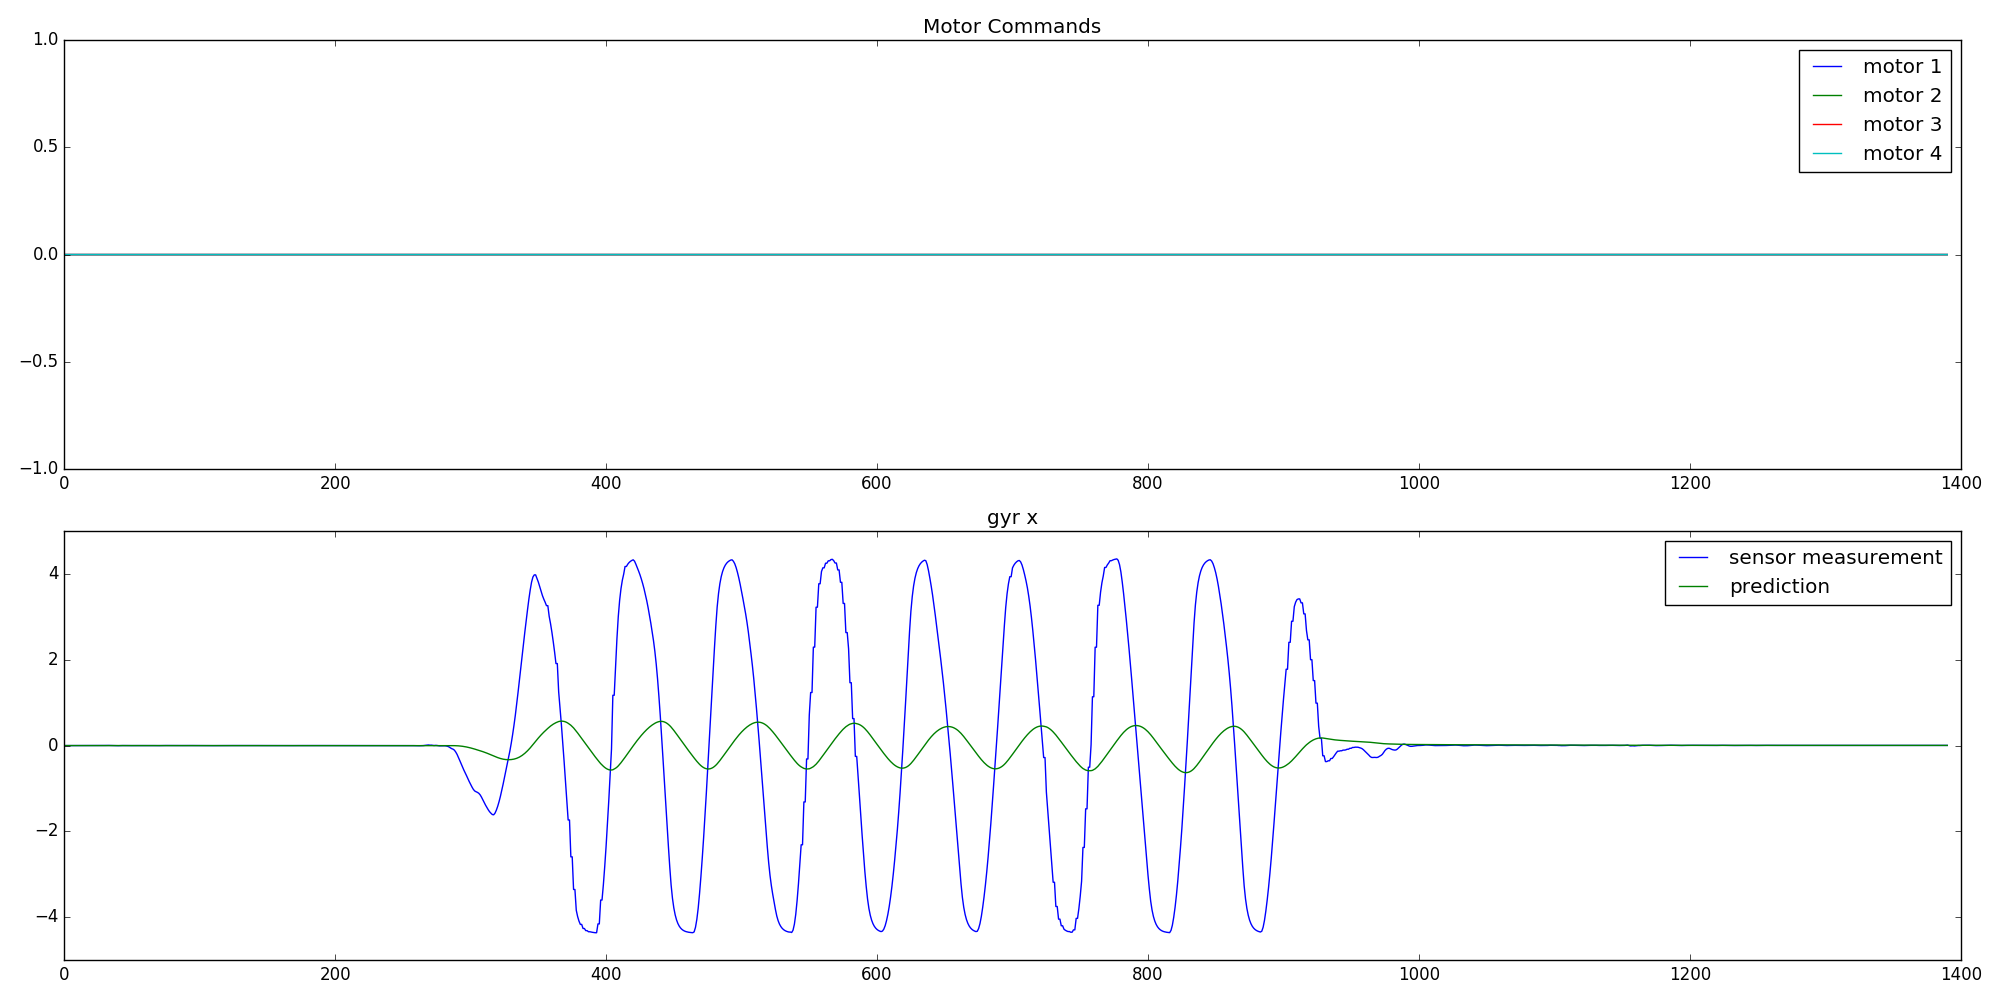
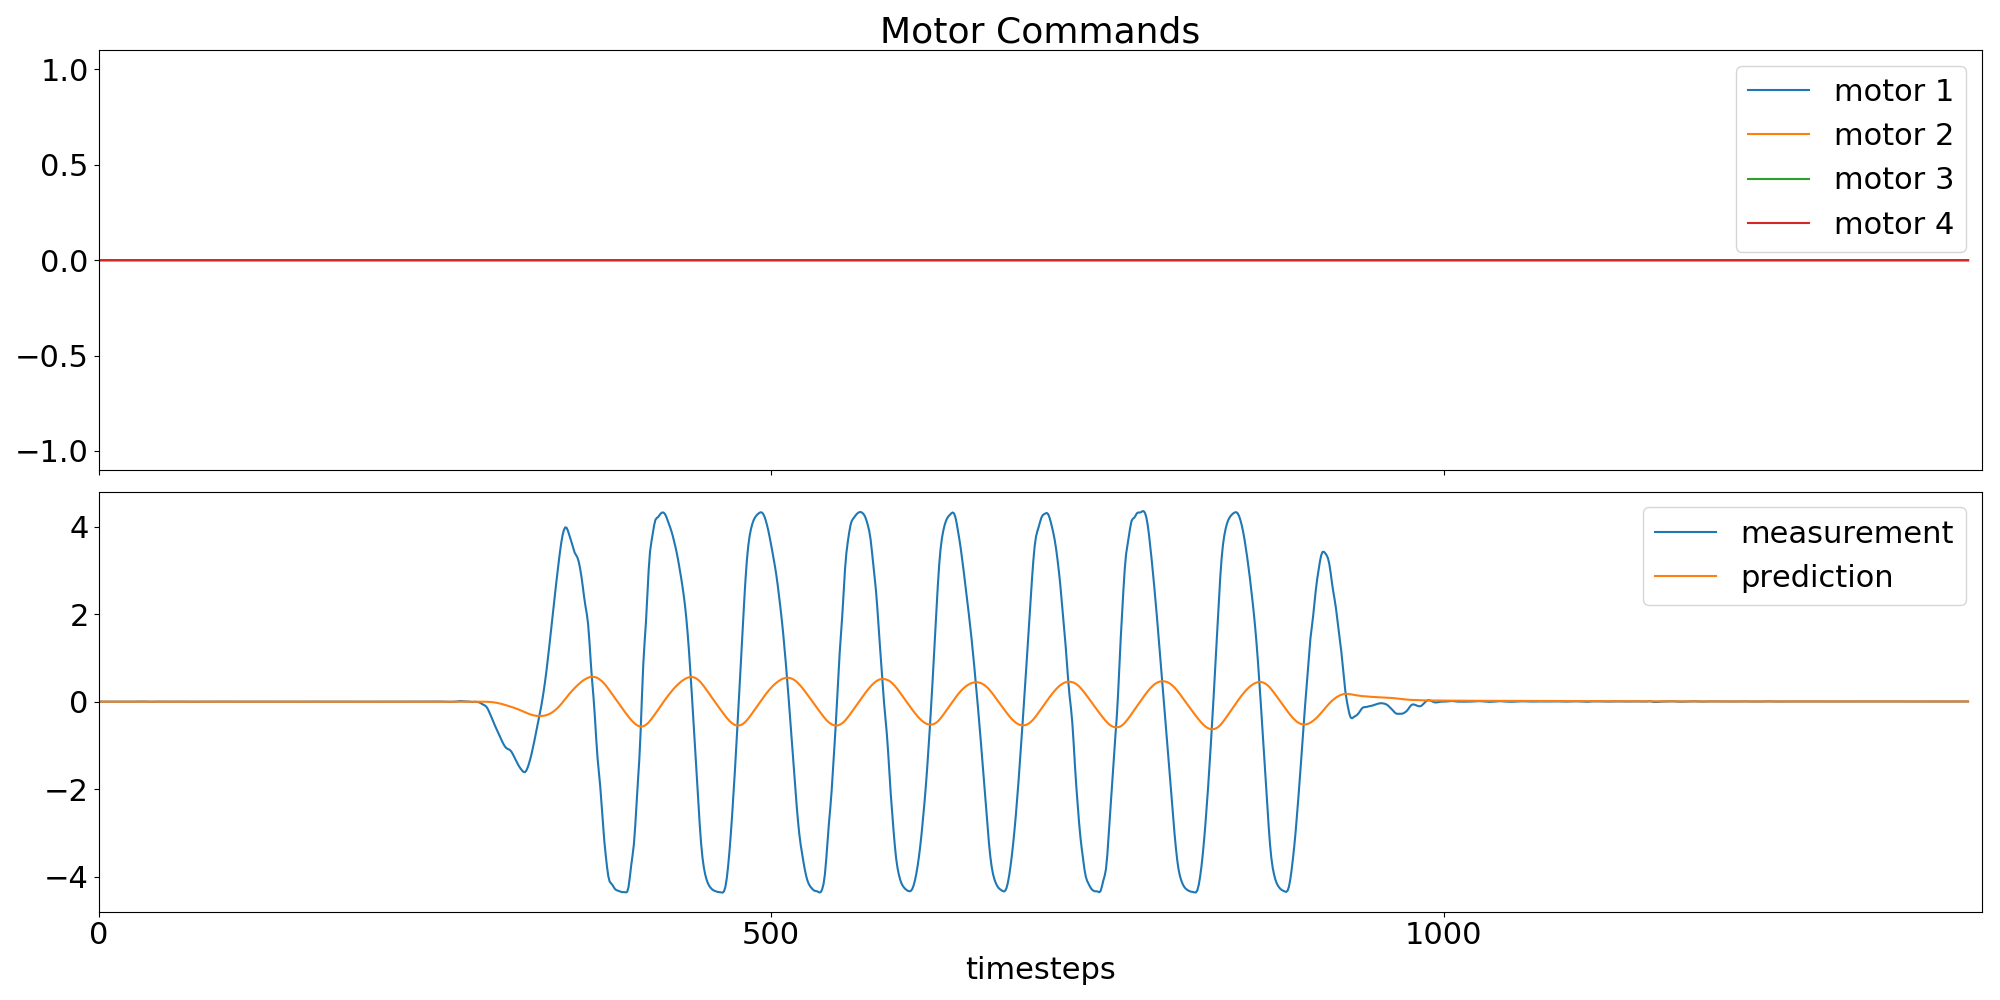
Modified analyzer for the plots, prints, labels and mathplotlib version 2

diff --git a/pickle_scripts/analyze_pickle.py b/pickle_scripts/analyze_pickle.py
@@ -54,17 +54,20 @@ class Analyzer():
         self._extract_all_variables()
         self._prepare_sensor_names()
 
-        if 'sensor_prediction' in self.variable_dict:
+        if 'x_pred' in self.variable_dict:
             self._sliding_window_variance()
 
-        params = {'legend.fontsize': 'large',
-          'figure.figsize': (20, 10),
-         'axes.labelsize': 'large',
-         'axes.titlesize':'large',
-         'xtick.labelsize':'large',
-         'ytick.labelsize':'large'}
+        params = {'legend.fontsize': 22,
+          'figure.figsize': (20, 14),
+         'axes.labelsize':22,
+         'axes.titlesize':26,
+         'xtick.labelsize':22,
+         'ytick.labelsize':22}
+
         plt.rcParams.update(params)
 
+        #colors from https://sashat.me/2017/01/11/list-of-20-simple-distinct-colors/
+        self.distinctColors = ['#e6194b','#3cb44b','#0082c8','#ffe119']
 
     """ HELPER FUNCTIONS """
 
@@ -78,6 +81,8 @@ class Analyzer():
         self.lag = self.variable_dict['lag']
         self.motor_commands = self.variable_dict["y"][:self.cut]
         self.sensor_values = self.variable_dict["x"][:self.cut]
+
+        self.numtimesteps = self.cut
 
         self.loop_time = None
         if "loop_time" in self.variable_dict:
@@ -280,14 +285,18 @@ class Analyzer():
 
         f, axarr = plt.subplots(len(self.use_sensors) + 1, 1, figsize=(20,12), sharex=True)
 
+
+
         for motor in range(self.nummot):
-            if args.synchronous_front_back and motor % 2 != 0:
+            if args.synchronous_front_back and motor % 2 == 0:
                 axarr[0].plot(self.motor_commands[:, motor])
         axarr[0].set_ylim([-1.1, 1.1])
         axarr[0].set_title("Motor Commands")
+        axarr[0].set_ylabel("a.u.")
+        axarr[0].grid()
 
         if args.synchronous_front_back:
-            axarr[0].legend(["front", "hind"])
+            axarr[0].legend(["hind legs", "front legs"])
 
         sensor_index = 0
         for sensor in range(len(self.use_sensors)):
@@ -308,11 +317,14 @@ class Analyzer():
                 axarr[sensor + 1].set_ylabel("$" + self.sensor_units[sensor_name] + "$")
                 sensor_index += 1
 
+            axarr[sensor + 1].grid()
             axarr[sensor +1 ].legend()
 
-        axarr[sensor + 1].set_xlabel("timesteps ($10ms$)")
+        axarr[sensor + 1].set_xlabel("timesteps ($10ms$ each)")
+
 
         f.tight_layout()
+
         self._save_image(f, 'img/time_series_motor_sensors.png')
         plt.show()
 
@@ -344,14 +356,6 @@ class Analyzer():
 
         f = plt.figure(figsize = (20,14))
 
-        params = {'legend.fontsize': 22,
-          'figure.figsize': (20, 14),
-         'axes.labelsize':22,
-         'axes.titlesize':26,
-         'xtick.labelsize':22,
-         'ytick.labelsize':22}
-
-        plt.rcParams.update(params)
         plt.hist(source, label=["right hind", "left hind", "right front", "left front"], bins= 10)
 
         def to_percent(y, position):
@@ -388,12 +392,12 @@ class Analyzer():
         parser.add_argument("-filter", "--filter_cutoff", type=float, default = 0.5)
         parser.add_argument("-xs", '--xlim_start', type= int, default = 0)
         parser.add_argument('-xe', '--xlim_end', type=int, default = self.numtimesteps)
-        parser.add_argument('-pMotor', '--plotMotor', type=bool, default = False)
         parser.add_argument('-pSensors', '--plotSensors', type=bool, default = True)
-        parser.add_argument('-pSensorsCut', '--plotSensorsCut', type=bool, default = False)
-        parser.add_argument('-pMse', '--plotMse', type=bool, default = False)
-        parser.add_argument('-pVar', '--plotVar', type=bool, default = False)
-        parser.add_argument('-pMseNorm', '--plotMseNorm', type=bool, default = False)
+        parser.add_argument('-pMotor', '--plotMotor', default = False, action='store_true')
+        parser.add_argument('-pSensorsCut', '--plotSensorsCut', default = False, action='store_true')
+        parser.add_argument('-pMse', '--plotMse', default = False, action='store_true')
+        parser.add_argument('-pVar', '--plotVar', default = False, action='store_true')
+        parser.add_argument('-pMseNorm', '--plotMseNorm', default = False, action='store_true')
         # TODO Make the bool args setable without writing the 1
 
         args, unknown_args = parser.parse_known_args()
@@ -427,8 +431,10 @@ class Analyzer():
         if args.plotMseNorm:
             num_subplots += 1
 
+        subplot_height = 5
+
         params = {'legend.fontsize': 22,
-          'figure.figsize': (20, 30),
+          'figure.figsize': (20, subplot_height * num_subplots),
          'axes.labelsize':22,
          'axes.titlesize':26,
          'xtick.labelsize':22,
@@ -461,8 +467,8 @@ class Analyzer():
                     pred = self.sensor_prediction[:-self.lag,i]
                     selected_ax = axarr[cnt_subplot + i]
                     # normal plot
-                    selected_ax.plot(self.sensor_values[:-self.lag,i], label="measurement", color='b')
-                    selected_ax.plot(pred, label="prediction", color='r')
+                    selected_ax.plot(self.sensor_values[:-self.lag,i], label="measurement")
+                    selected_ax.plot(pred, label="prediction")
 
                     # cut between bias and motor pred
                     if hasattr(self, 'x_pred_coefficients') and args.plotSensorsCut:
@@ -621,14 +627,14 @@ class Analyzer():
         # THIS IS USED AND TESTED FOR EXPERIMENT 2
 
         parser = argparse.ArgumentParser()
-        parser.add_argument("-extended", "--extended", type=bool, default = False)
+
         parser.add_argument("-lag", "--lag", type=int, default = 1)
         args, unknown_args = parser.parse_known_args()
 
         self.sensor_values -= np.mean(self.sensor_values, axis=0)
         self._prepare_data_for_learning()
 
-        if args.extended:
+        if self.args.extended:
             self.trainingData["motor"] = np.zeros_like(self.trainingData["motor"])
             self.testData["motor"] = np.zeros_like(self.testData["motor"])
 
@@ -644,22 +650,44 @@ class Analyzer():
         predTest = regr.predict(self.testData["motor"])
 
 
-        _var = np.std(self.sensor_values, axis=0)
+        _var = np.var(self.testData["sensor"], axis=0)
 
 
-        mse = np.mean((predTest - self.testData["sensor"]) ** 2)
-        mse_var = np.mean(((predTest - self.testData["sensor"])/_var) ** 2)
-        print mse
-        print mse_var
+        mse = np.mean((predTest - self.testData["sensor"]) ** 2, axis=0)
+        mse_var = mse / _var
+
+        print self.trainingData["motor"]
+
+        print "\tacc \t gyr\ttotal"
+        print "mse:\t%.3f\t%.3f\t%.3f" % (np.mean(mse[:3]), np.mean(mse[3:]),np.mean(mse))
+        print "var:\t%.3f\t%.3f\t%.3f" % (np.mean(_var[:3]), np.mean(_var[3:]), np.mean(_var))
+        print "nmse:\t%.3f\t%.3f\t%.3f" % (np.mean(mse_var[:3]), np.mean(mse_var[3:]), np.mean(mse_var))
+
+        print "coeffs"
+        print "{}"
+        for i in range(regr.coef_.shape[1]):
+            print "{",
+            for j in range(regr.coef_.shape[0]):
+                print regr.coef_[j,i],
+                if j != regr.coef_.shape[0] - 1:
+                    print ",",
+            print "}\n"
+
+        print "}"
+
 
         _y_min = np.ceil(np.min(self.testData["sensor"]))
         _y_max = np.floor(np.max(self.testData["sensor"]))
-        _y_ticks = np.arange(_y_min, _y_max + 1, 1)
+        _x_ticks = np.arange(0,predTest.shape[0] + 10, 100)
+        _y_step = np.round((_y_max - _y_min) / 5.)
+        _y_ticks = np.arange(_y_min, _y_max + 1, _y_step)
 
-        f, ax = plt.subplots(3,2, sharey=True, sharex=True, figsize=(20,15))
+        # plotting
 
 
-        plt.rc('font', family='serif', size=30)
+        f, ax = plt.subplots(3,2, sharey=True, sharex=True, figsize=(20,10))
+
+        #plt.rc('font', family='serif', size=30)
 
         for i in range(self.numsen):
             _x = i % 3
@@ -668,11 +696,11 @@ class Analyzer():
             selected_sensor = self.use_sensors[_y]
 
             ax_selected.plot(self.testData["sensor"][:,i], label='sensor measurements')
-            ax_selected.plot(predTest[:,i], label='sensor prediction')
+            ax_selected.plot(predTest[:,i], label='sensor predictions')
 
             ax_selected.grid(linestyle='--', linewidth=1, alpha = 0.2)
             plt.yticks(_y_ticks)
-            plt.xticks(np.arange(0,predTest.shape[0],100))
+            plt.xticks(_x_ticks)
 
             if _y == 0:
                 ax_selected.set_ylabel(['x','y','z'][_x])
@@ -683,7 +711,7 @@ class Analyzer():
                 ax_selected.set_xlabel("timesteps")
 
         # Put a legend below current axis
-        ax[2,0].legend(loc='lower left', bbox_to_anchor=(0, -0.7),
+        ax[2,0].legend(loc='lower left', bbox_to_anchor=(0, -0.6),
           fancybox=True, shadow=True, ncol=2)
 
         f.tight_layout(pad=3, h_pad=0.4, w_pad = 0.3)
@@ -852,7 +880,7 @@ class Analyzer():
         # acc-y and gyr-x
 
         f, ax = plt.subplots(1,2, figsize=(20,7))
-        plt.rc('font', family='serif', size=30)
+        #plt.rc('font', family='serif', size=30)
 
         ax_i = 0
         for dim in [1,3]:
@@ -961,8 +989,9 @@ class Analyzer():
 
         plt.plot(xValues, [0] * len(xValues), 'k', alpha=0.3)
 
-        plt.rc('text', usetex=True)
-        plt.rc('font', family='serif')
+        # TODO: Neccessary?
+        #plt.rc('text', usetex=True)
+        #plt.rc('font', family='serif')
 
         print np.average(allAverageSquaredCorrelations[:, 0])
 
@@ -1177,12 +1206,12 @@ class Analyzer():
         #self.sensor_values -= np.mean(self.sensor_values, axis = 0)
         #self.sensor_values /= np.std(self.sensor_values, axis = 0)
 
-        _xticks = np.linspace(-90,90,5)
+        _xticks = np.linspace(-70,70,5)
         _yticks_acc = np.linspace(-0.9,0.9,4)
         _yticks_gyr = np.linspace(-0.15,0.15,3)
         sensor_means = np.mean(self.sensor_values, axis = 0)
 
-        plt.rc('font', family='serif', size=30)
+        # plt.rc('font', family='serif', size=30)
 
         for i in range(self.numsen):
             _x = i % 3
@@ -1197,14 +1226,14 @@ class Analyzer():
                     #backward moving
                     color = 'b'
 
-                ax_selected.scatter(self.motor_commands[part * j: part * (j + 1),0] * 90., self.sensor_values[part * j: part * (j + 1),i], alpha = 0.05, color=color)
+                ax_selected.scatter(self.motor_commands[part * j: part * (j + 1),0] * 70., self.sensor_values[part * j: part * (j + 1),i], alpha = 0.2, color=color, s = 4, lw = 0)
 
             #fake_scatter for legend
             legend_scatter_forwards = ax_selected.scatter( np.NaN, np.NaN, marker = 'o', color='r', label='forwards' )
             legend_scatter_backwards = ax_selected.scatter( np.NaN, np.NaN, marker = 'o', color='b', label='backwards' )
 
 
-            ax_selected.grid(linestyle='--', linewidth=1, alpha = 0.2)
+            ax_selected.grid(linestyle='--', linewidth=1, alpha = 0.5)
             #plt.yticks(_y_ticks)
             plt.xticks(_xticks)
 
@@ -1218,13 +1247,13 @@ class Analyzer():
 
             if _x == 0:
                 # first row add titles
-                ax_selected.set_title(self.sensor_name_long[selected_sensor] + " in [$" + self.sensor_units[selected_sensor] + "$]", y = 1.08)
+                ax_selected.set_title(self.sensor_name_long[selected_sensor] + " y-axis in [$" + self.sensor_units[selected_sensor] + "$]", y = 1.08)
             if _x == 2:
                 #last row add x units
                 ax_selected.set_xlabel("degrees")
 
         # Put a legend below current axis
-        lgnd = ax[2,0].legend(loc='lower left', bbox_to_anchor=(0, -0.7),
+        lgnd = ax[2,0].legend(loc='lower left', bbox_to_anchor=(0, -0.5),
           fancybox=True, shadow=True, ncol=2)
         lgnd.legendHandles[0]._sizes = [30]
         lgnd.legendHandles[1]._sizes = [30]
@@ -1495,8 +1524,7 @@ if __name__ == "__main__":
                         help="correlation window size", default=100)
     parser.add_argument("-es", "--embsize", type=int,
                         help="history time steps for learning", default=1)
-    parser.add_argument("-extended", "--extended", type=int,
-                        help="toggle extended model", default=1)
+    parser.add_argument("-extended", "--extended", action="store_true")
     parser.add_argument("-cut", "--cut", type=int, help="Cut of the graph after 'cut' timesteps.", default=0)
     args, unknown_args = parser.parse_known_args()
 
